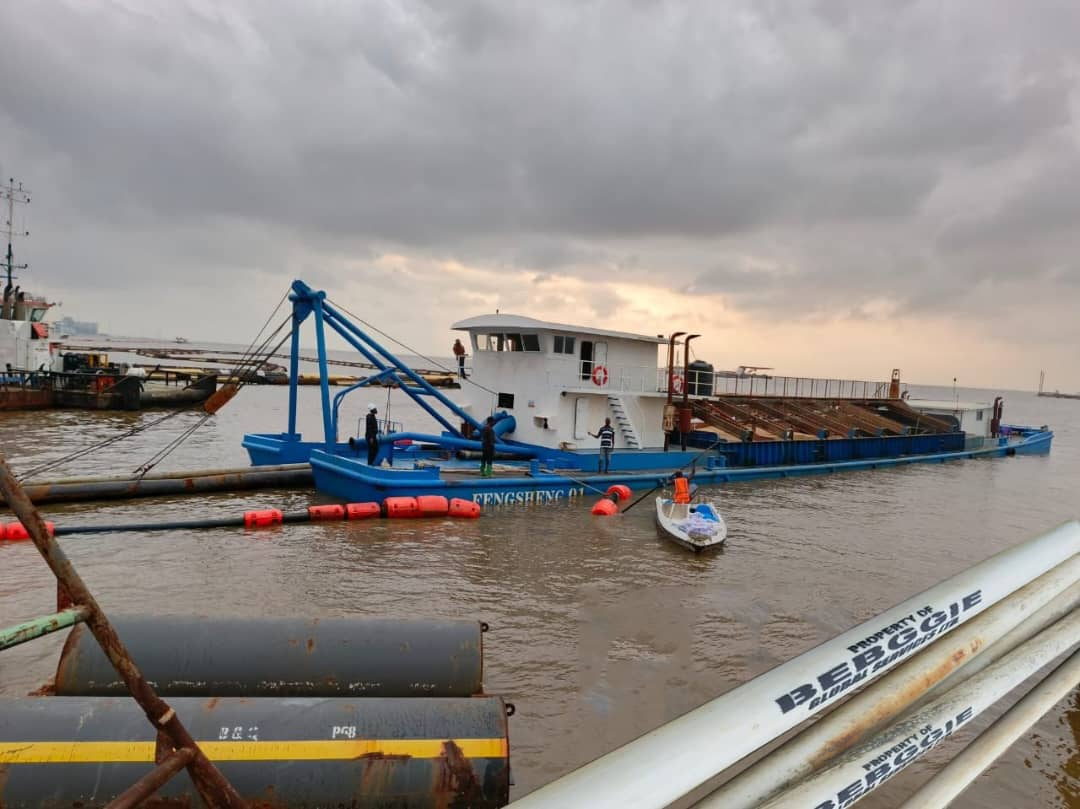
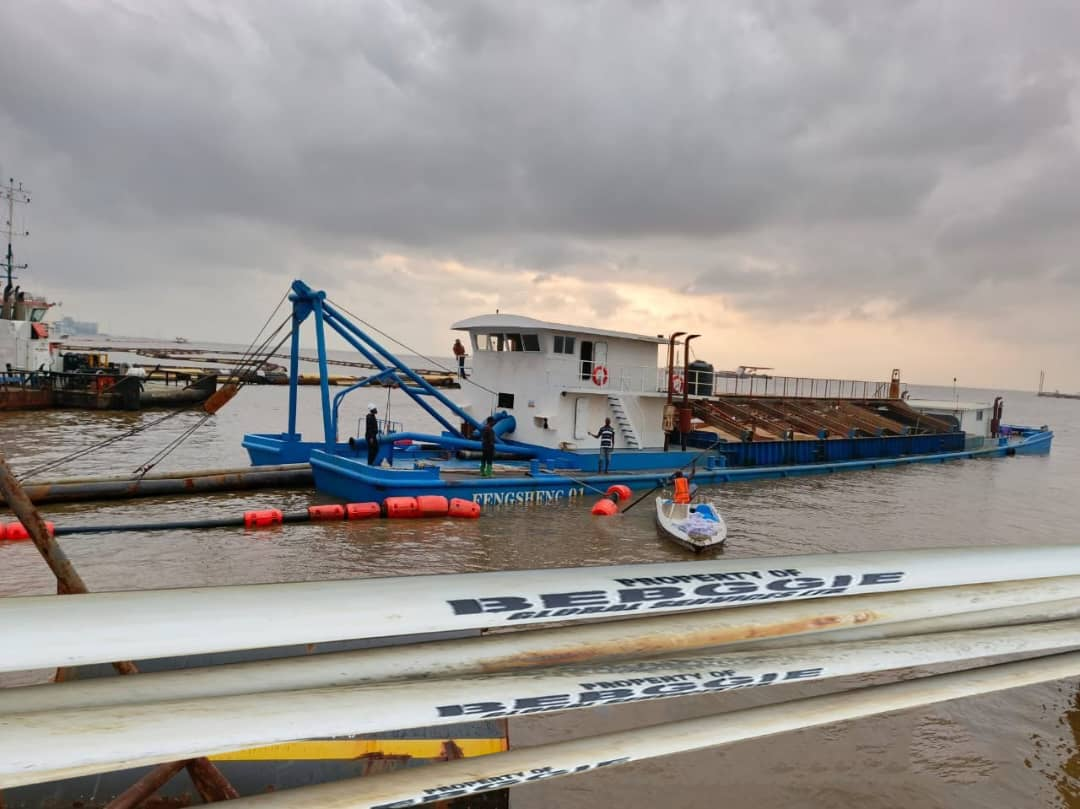
Latest update

Changed region(s): [[0.0, 0.6489, 1.0, 1.0]]

diff --git a/style.css b/style.css
@@ -145,43 +145,50 @@ footer a:hover {
 }
 
 /* Meet Julius Section */
-@keyframes colorChange {
-            0% { color: #002147; }
-            33% { color: #87CEEB; }
-            66% { color: #6E272D; }
-            100% { color: #002147; }
-        }
-
-   .meet-julius {
+.meet-julius {
     position: relative;
     background: url('/images/profile.jpeg') no-repeat center center/cover;
-    padding: 10rem 1rem; 
+    padding: 2rem 1rem; 
     text-align: center;
     color: white;
-    min-height: 500px; /* Increased height */
+    min-height: 600px; 
+    display: flex;
+    flex-direction: column;
+    justify-content: flex-start; 
+    align-items: center; 
+}
+
+.meet-julius h1 {
+    font-size: 2.5rem;
+    margin-top: 2rem; /* Add some top margin to push it down a bit */
+    margin-bottom: 1rem;
+    animation: colorChange 5s infinite;
+}
+
+.meet-julius .cta-button {
+    display: inline-block;
+    padding: 0.75rem 1.5rem;
+    background-color: #5704bd;
+    color: white;
+    text-decoration: none;
+    border-radius: 4px;
+    font-size: 1rem;
+    transition: background-color 0.3s ease;
+    margin-top: 1rem; 
+}
+
+.meet-julius .cta-button:hover {
+    background-color: #5a1d21;
+}
+
+@keyframes colorChange {
+    0% { color: #002147; } /* Deep Blue */
+    33% { color: #87CEEB; } /* Sky Blue */
+    66% { color: #5704bd; } /* Red Oxide */
+    100% { color: #002147; } /* Deep Blue */
 }
 
 
-        .meet-julius h1 {
-            font-size: 2.5rem;
-            margin-bottom: 1rem;
-            animation: colorChange 5s infinite;
-        }
-
-        .meet-julius .cta-button {
-            display: inline-block;
-            padding: 0.75rem 1.5rem;
-            background-color: #6E272D;
-            color: white;
-            text-decoration: none;
-            border-radius: 4px;
-            font-size: 1rem;
-            transition: background-color 0.3s ease;
-        }
-
-        .meet-julius .cta-button:hover {
-            background-color: #5a1d21;
-        }
 
 /* About Julius Section */
 .about-julius {

diff --git a/index.html b/index.html
@@ -124,6 +124,10 @@
 					<img src="/images/md.jpeg" alt="Project 10">
 					<div class="gallery-caption">Top Management overseeing dredging operations</div>
 				</div>
+				<div class="gallery-item">
+					<img src="/images/pipe.jpeg" alt="Project 10">
+					<div class="gallery-caption">Bebggie Pipes</div>
+				</div>
 			</div>
 		</div>
 	</section>
